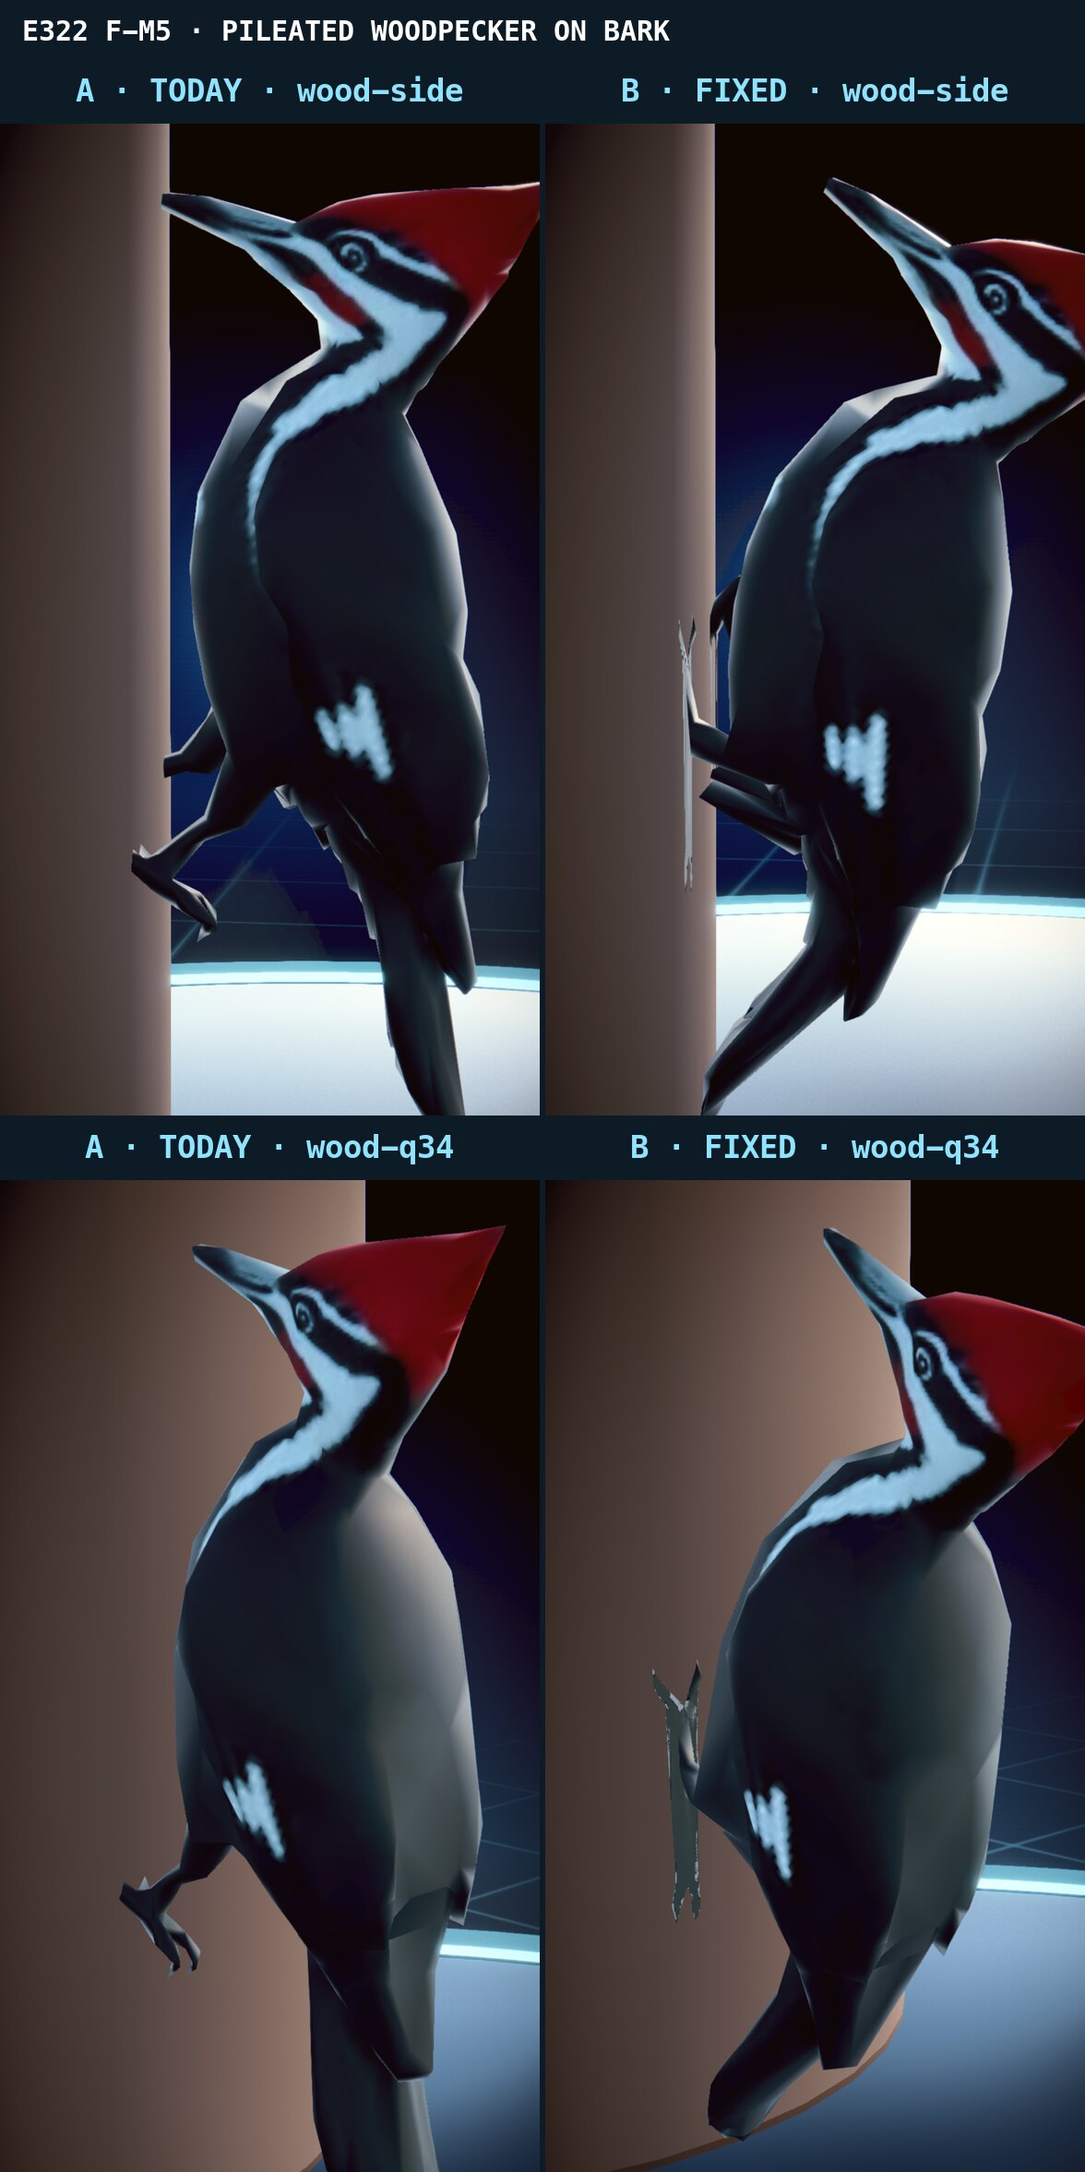
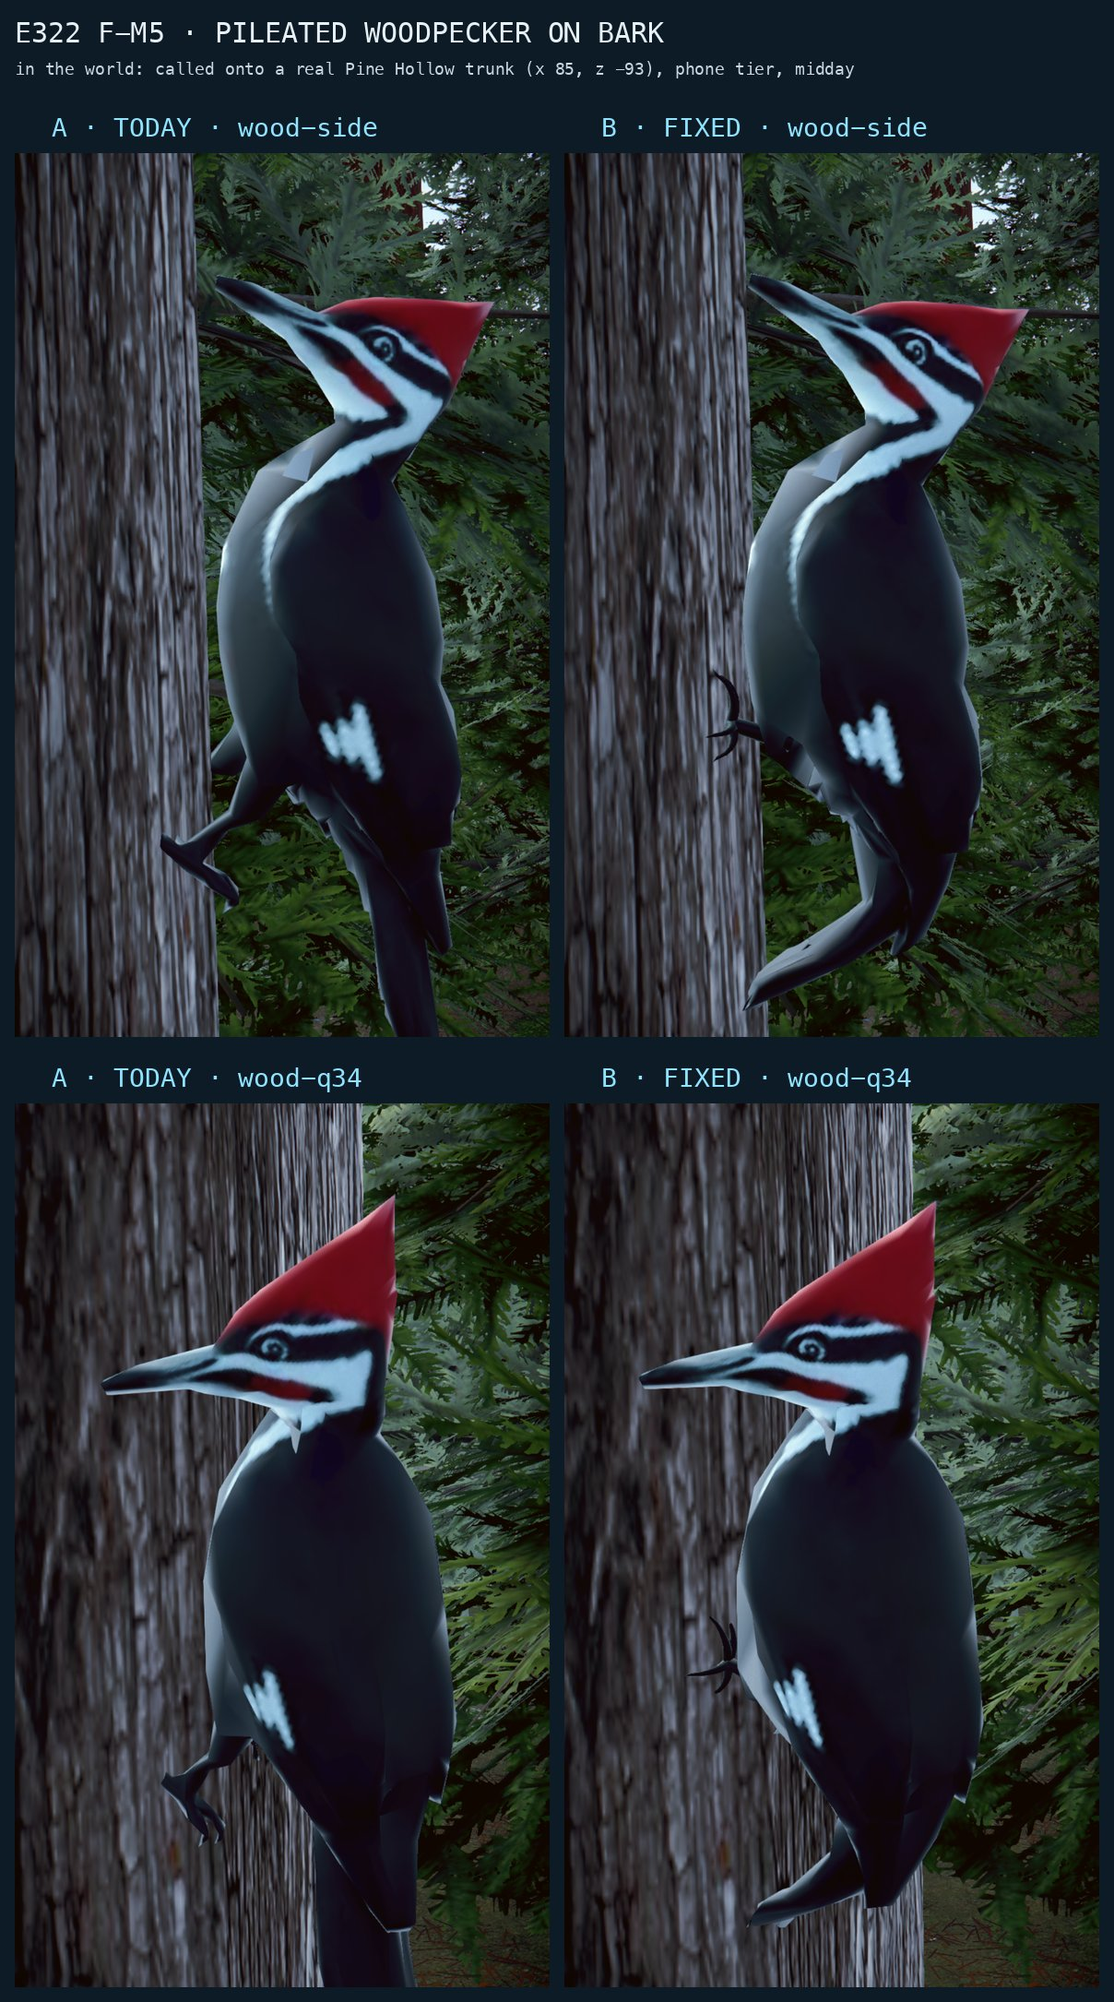
E322 F-M5: woodpecker — clawed feet gripping the bark instead of a flat grey sliver, belly along the bark, tail braced; board re-shot on a real Pine Hollow trunk
Bird fix B's clingPose folded the generated legs up and clamped them to the bark plane, so the tarsi and plate feet were
squashed flat onto it (a degenerate grey sliver); some foot vertices also sat past the tail's root plane and bent with
the tail (a thin stick). The body was slid in by its front-most point after a fixed lean, so the lower belly stood off.
Now (src/pinehollow/life/birdFix.ts): the lean is searched for the least mean gap down the torso's front and the body
slid to 4 mm off the bark; the generated legs collapse inside the belly and new feet are built (birdModels.ts
appendFeet): per side a short tarsus to the bark and four toes, arched off it and hooked in at the claws, on the old
feet's own dark texel (+~200 tris). Owl and raven B unchanged; A untouched.
Board: art/pine-hollow/round-19-e322-bears-birds/birds-woodpecker.jpg — in the world (__pineLife.woodNow onto a
trunk at x 85, z -93), phone tier, A and B on the same perch (scripts/e322-woodpecker-world-capture.mjs).
birds_fix_preview.mjs appends the feet to its B GLB for the Blender renders.

Claude-Session: https://claude.ai/code/session_01UVATwJZC8NaFzZwwMnQYsw

diff --git a/src/pinehollow/life/birdFix.ts b/src/pinehollow/life/birdFix.ts
@@ -6,8 +6,9 @@
  *                                      back are pushed out to an ellipsoid between the wing roots, the head, and the tail
  *   clingPose(pos, side, pitch)        the perched woodpecker: it stood on the bark on straight legs, its tail in the air;
  *                                      in the frame its perch puts it in (the trunk a vertical plane in front of its belly)
- *                                      the body leans back to the bark, the legs fold up under the breast onto the bark,
- *                                      the tail bends down until its tip props on the bark
+ *                                      the body lies along the bark, the generated legs go into the belly and new feet
+ *                                      grip the bark (a short tarsus, four dark toes hooked in at the claws: `feet`, which
+ *                                      birdModels.ts appends), the tail bends down until its tip braces on the bark
  *
  * Pure geometry on a flat xyz array (no three.js loader): scripts/img2mesh/birds/birds_fix_preview.mjs runs them in Node.
  */
@@ -45,57 +46,133 @@ export function inflateBody(pos: Float32Array, nor: Float32Array, s: FixSide, o:
   }
 }
 
+/** the clinging woodpecker's new feet (clingPose): in the pose frame, dark (every vertex on the old feet's own texel) */
+export interface ClingFeet { pos: Float32Array; uv: Float32Array; idx: Uint32Array }
+
+/** a tapered tube along `path` (world), appended to `P` / `I` — rings of `sides`, radius `rad[i]`, the last ring a point */
+function tube(P: number[], I: number[], path: readonly THREE.Vector3[], rad: readonly number[], sides: number): void {
+  const base = P.length / 3, T = new THREE.Vector3(), N1 = new THREE.Vector3(), N2 = new THREE.Vector3(), ref = new THREE.Vector3();
+  const m = path.length;
+  for (let i = 0; i < m; i++) {
+    const a = path[Math.max(0, i - 1)], b = path[Math.min(m - 1, i + 1)], c = path[i];
+    if (!a || !b || !c) continue;
+    T.subVectors(b, a).normalize();
+    ref.set(0, 0, 1); if (Math.abs(T.z) > 0.9) ref.set(1, 0, 0);
+    N1.crossVectors(T, ref).normalize(); N2.crossVectors(T, N1);
+    const r = rad[i] ?? 0;
+    for (let j = 0; j < sides; j++) {
+      const t = (j / sides) * Math.PI * 2, cs = Math.cos(t) * r, sn = Math.sin(t) * r;
+      P.push(c.x + N1.x * cs + N2.x * sn, c.y + N1.y * cs + N2.y * sn, c.z + N1.z * cs + N2.z * sn);
+    }
+  }
+  // (a, b, c) with a→b round the ring and a→c along the path faces outward (smoothNormals' winding)
+  for (let i = 0; i + 1 < m; i++) for (let j = 0; j < sides; j++) {
+    const a = base + i * sides + j, b = base + i * sides + ((j + 1) % sides), c = a + sides, d = b + sides;
+    I.push(a, b, c, b, d, c);
+  }
+}
+
 /**
  * The perched woodpecker, clinging. `pos` is in the pose frame (the model levelled, feet down, beak +z: birdModels.ts),
  * which its perch pitches nose-up by `pitch` on a trunk whose bark is the plane `bark` metres in front of the pose point
- * (life/index.ts: the spot is `sec.r + 0.05` out from the trunk's axis). Returns the rigid move applied to the whole bird
- * (the neck and shoulder pivots take it too); the legs and the tail then bend on top of it.
+ * (life/index.ts: the spot is `sec.r + 0.05` out from the trunk's axis). In that world frame (+y up, +z toward the trunk):
+ *
+ *  1. rigid: the body turned until its breast-and-belly line lies along the bark (the lean that leaves the least mean gap
+ *     down the torso), then slid in until its nearest point is `gap` off the bark — belly to the trunk, head held off it;
+ *  2. the generated legs (straight tarsi, flat plate feet — pressed onto the bark they read as a grey sliver, E322 F-M5
+ *     round 2) are drawn into the body, and `feet` are built instead: per side a short tarsus from the lower belly to the
+ *     bark and four toes splayed on it (two up, one out, one down-back), each arched off the bark and hooked into it at the
+ *     tip — dark curved claws, on the old feet's own dark texel (`uv`, when given);
+ *  3. the tail bent down from its root until its tip braces on the bark.
+ *
+ * Returns the rigid move applied to the whole bird (the neck and shoulder pivots take it) and the feet (pose frame).
  */
-export function clingPose(pos: Float32Array, s: FixSide, gen2pose: THREE.Matrix4, o: { pitch: number; bark?: number; lean?: number; gap?: number }): THREE.Matrix4 {
-  const n = pos.length / 3, bark = o.bark ?? 0.05;
+export function clingPose(pos: Float32Array, s: FixSide, gen2pose: THREE.Matrix4, o: { pitch: number; bark?: number; gap?: number; uv?: Float32Array | null }): { move: THREE.Matrix4; feet: ClingFeet } {
+  const n = pos.length / 3, bark = o.bark ?? 0.05, gap = o.gap ?? 0.004;
   // pose → the perch's world frame (+y up, +z toward the trunk; the bark the plane z = bark) and back
   const W = new THREE.Matrix4().makeRotationX(-o.pitch), Wi = new THREE.Matrix4().makeRotationX(o.pitch);
   const P = new THREE.Vector3();
-  const tail = new Uint8Array(n), leg = new Uint8Array(n);
-  // the parts, told in the generated frame (gen2pose⁻¹): the tail past its root plane, the legs below the belly
+  const tail = new Uint8Array(n), leg = new Uint8Array(n), head = new Uint8Array(n);
+  // the parts, told in the generated frame (gen2pose⁻¹): the tail past its root plane, the legs below the belly, the head
+  // above the neck
   const toGen = gen2pose.clone().invert();
   const tr = new THREE.Vector3(...(s.tailRoot ?? [0, -0.1, -0.1])), ta = new THREE.Vector3(...(s.tailAxis ?? [0, -0.63, -0.77])).normalize();
+  const headY = s.neck[1] - 0.005;   // above the neck: the head (left out of the torso's profile)
   const legTop = s.feetY + 0.065;   // the belly's underside: the tarsi hang below it (wood_perch: feet −0.200, belly ≈ −0.13)
   const sTail = new Float32Array(n);
+  let footUv = -1, footY = Infinity;
   for (let i = 0; i < n; i++) {
     P.set(pos[i * 3] ?? 0, pos[i * 3 + 1] ?? 0, pos[i * 3 + 2] ?? 0).applyMatrix4(toGen);
     const st = P.clone().sub(tr).dot(ta);
-    if (st > 0) { tail[i] = 1; sTail[i] = st; } else if (P.y < legTop) leg[i] = 1;
+    // the feet reach back past the tail's root plane: below the belly and forward of the tail's underside (z > −0.1) is leg
+    if (P.y < legTop && P.z > -0.1) { leg[i] = 1; if (P.y < footY) { footY = P.y; footUv = i; } } else if (st > 0) { tail[i] = 1; sTail[i] = st; } else if (P.y < legTop) leg[i] = 1; else if (P.y > headY) head[i] = 1;
   }
   // world
   const w = new Float32Array(pos.length);
   for (let i = 0; i < n; i++) { P.set(pos[i * 3] ?? 0, pos[i * 3 + 1] ?? 0, pos[i * 3 + 2] ?? 0).applyMatrix4(W); w[i * 3] = P.x; w[i * 3 + 1] = P.y; w[i * 3 + 2] = P.z; }
-  // 1. rigid: lean the body back from its nose-into-the-trunk tilt to `lean` (head away from the bark), then slide it in
-  //    until the breast is `gap` off the bark
-  const beak = new THREE.Vector3(...(s.beakTip ?? [0, 0.07, 0.15])).applyMatrix4(gen2pose).applyMatrix4(W);
-  const tt = new THREE.Vector3(...(s.tailTip ?? [0, -0.2, -0.21])).applyMatrix4(gen2pose).applyMatrix4(W);
-  const axisAng = Math.atan2(beak.z - tt.z, beak.y - tt.y);          // the body axis's lean toward the trunk (+) from vertical
-  const turn = new THREE.Matrix4().makeRotationX(-(axisAng + (o.lean ?? 0.06)));   // about +x (+y turns toward +z): minus leans it back
+  // 1. rigid: the lean (about +x; + turns +y toward the bark) that lays the torso's front along the bark
+  const bins = 24;
+  let bestLean = 0, bestGap = Infinity;
+  for (let lean = -0.4; lean <= 0.4001; lean += 0.01) {
+    const c = Math.cos(lean), sn = Math.sin(lean);
+    const prof = new Float32Array(bins).fill(-Infinity);
+    let y0 = Infinity, y1 = -Infinity, front = -Infinity;
+    const ys: number[] = [], zs: number[] = [];
+    for (let i = 0; i < n; i++) {
+      if (tail[i] === 1 || leg[i] === 1) continue;
+      const y = w[i * 3 + 1] ?? 0, z = w[i * 3 + 2] ?? 0;
+      const y2 = y * c - z * sn, z2 = y * sn + z * c;
+      front = Math.max(front, z2);
+      if (head[i] === 1) continue;
+      ys.push(y2); zs.push(z2); y0 = Math.min(y0, y2); y1 = Math.max(y1, y2);
+    }
+    for (let k = 0; k < ys.length; k++) {
+      const b = Math.min(bins - 1, Math.floor(((ys[k] ?? 0) - y0) / (y1 - y0 + 1e-6) * bins));
+      prof[b] = Math.max(prof[b] ?? -Infinity, zs[k] ?? 0);
+    }
+    // the middle of the torso (its ends are the rump and the shoulders' round-off): the mean gap to the front
+    let sum = 0, cnt = 0;
+    for (let b = 3; b < bins - 3; b++) { const v = prof[b] ?? -Infinity; if (v > -Infinity) { sum += front - v; cnt++; } }
+    const mean = cnt > 0 ? sum / cnt : Infinity;
+    if (mean < bestGap - 1e-5) { bestGap = mean; bestLean = lean; }
+  }
+  const turn = new THREE.Matrix4().makeRotationX(bestLean);   // three: +a turns +y toward +z (the bark)
   let front = -Infinity;
   for (let i = 0; i < n; i++) {
     P.set(w[i * 3] ?? 0, w[i * 3 + 1] ?? 0, w[i * 3 + 2] ?? 0).applyMatrix4(turn);
     w[i * 3] = P.x; w[i * 3 + 1] = P.y; w[i * 3 + 2] = P.z;
     if (tail[i] === 0 && leg[i] === 0) front = Math.max(front, P.z);
   }
-  const slide = bark - (o.gap ?? 0.012) - front;
+  const slide = bark - gap - front;
   for (let i = 0; i < n; i++) w[i * 3 + 2] = (w[i * 3 + 2] ?? 0) + slide;
   const rigid = new THREE.Matrix4().makeTranslation(0, 0, slide).multiply(turn);
-  // 2. the legs, folded up under the breast: turned about the hip (the tarsi's top, centre) until they lie along the
-  //    bark with the feet up toward the chest, then pressed onto the bark
-  const hip = new THREE.Vector3(0, s.feetY + 0.07, tr.z + 0.07).applyMatrix4(gen2pose).applyMatrix4(W).applyMatrix4(rigid);
-  const fold = new THREE.Matrix4().makeTranslation(hip.x, hip.y, hip.z).multiply(new THREE.Matrix4().makeRotationX(-1.25)).multiply(new THREE.Matrix4().makeScale(1, 0.85, 0.85)).multiply(new THREE.Matrix4().makeTranslation(-hip.x, -hip.y, -hip.z));
-  for (let i = 0; i < n; i++) {
-    if (leg[i] === 0) continue;
-    P.set(w[i * 3] ?? 0, w[i * 3 + 1] ?? 0, w[i * 3 + 2] ?? 0).applyMatrix4(fold);
-    w[i * 3] = P.x; w[i * 3 + 1] = P.y; w[i * 3 + 2] = Math.min(P.z, bark - 0.002);
+  const toWorld = (g: readonly [number, number, number]): THREE.Vector3 => new THREE.Vector3(...g).applyMatrix4(gen2pose).applyMatrix4(W).applyMatrix4(rigid);
+  // 2. the generated legs drawn into the belly (their faces collapse inside the body) …
+  const inside = toWorld([0, s.feetY + 0.1, tr.z + 0.07]);
+  for (let i = 0; i < n; i++) if (leg[i] === 1) { w[i * 3] = inside.x; w[i * 3 + 1] = inside.y; w[i * 3 + 2] = inside.z; }
+  // … and the new feet: per side a tarsus from the lower belly to the bark, four toes on it hooked in at the tip
+  const FP: number[] = [], FI: number[] = [];
+  const TOES = [[0.3, 0.03], [-0.15, 0.027], [1.75, 0.024], [2.75, 0.02]] as const;   // (angle from straight up, outward +; length m)
+  for (const side of [-1, 1]) {
+    const hip = toWorld([side * 0.021, s.feetY + 0.08, tr.z + 0.075]);
+    const foot = new THREE.Vector3(side * 0.03, hip.y + 0.01, bark - 0.0042);
+    const tp: THREE.Vector3[] = [], trd: number[] = [];
+    for (let k = 0; k <= 4; k++) { const f = k / 4; tp.push(hip.clone().lerp(foot, f)); trd.push(0.005 - 0.0012 * f); }
+    tube(FP, FI, tp, trd, 6);
+    for (const [ang, len] of TOES) {
+      const dx = side * Math.sin(ang), dy = Math.cos(ang), path: THREE.Vector3[] = [], rd: number[] = [];
+      for (let k = 0; k <= 8; k++) {
+        const f = k / 8, r = 0.0032 * (1 - 0.85 * f);
+        const off = r + 0.0035 * Math.sin(Math.PI * Math.min(1, f / 0.85)) - 0.0048 * smooth(0.7, 1, f);   // arched off the bark, the claw hooked into it
+        path.push(new THREE.Vector3(foot.x + dx * len * f, foot.y + dy * len * f, bark - off));
+        rd.push(k === 8 ? 0 : r);
+      }
+      tube(FP, FI, path, rd, 5);
+    }
   }
   // 3. the tail, bent down (toward the bark) progressively from its root until its tip props on the bark
   const root = tr.clone().applyMatrix4(gen2pose).applyMatrix4(W).applyMatrix4(rigid);
+  const tt = new THREE.Vector3(...(s.tailTip ?? [0, -0.2, -0.21])).applyMatrix4(gen2pose).applyMatrix4(W);
   let sMax = 0;
   for (let i = 0; i < n; i++) if (tail[i] === 1) sMax = Math.max(sMax, sTail[i] ?? 0);
   const tip = tt.clone().applyMatrix4(rigid);
@@ -115,5 +192,10 @@ export function clingPose(pos: Float32Array, s: FixSide, gen2pose: THREE.Matrix4
   }
   // back to the pose frame
   for (let i = 0; i < n; i++) { P.set(w[i * 3] ?? 0, w[i * 3 + 1] ?? 0, w[i * 3 + 2] ?? 0).applyMatrix4(Wi); pos[i * 3] = P.x; pos[i * 3 + 1] = P.y; pos[i * 3 + 2] = P.z; }
-  return Wi.clone().multiply(rigid).multiply(W);
+  const fp = new Float32Array(FP.length);
+  for (let i = 0; i < FP.length / 3; i++) { P.set(FP[i * 3] ?? 0, FP[i * 3 + 1] ?? 0, FP[i * 3 + 2] ?? 0).applyMatrix4(Wi); fp[i * 3] = P.x; fp[i * 3 + 1] = P.y; fp[i * 3 + 2] = P.z; }
+  const fuv = new Float32Array((FP.length / 3) * 2);
+  const u0 = footUv >= 0 && o.uv ? (o.uv[footUv * 2] ?? 0) : 0, v0 = footUv >= 0 && o.uv ? (o.uv[footUv * 2 + 1] ?? 0) : 0;
+  for (let i = 0; i < fuv.length / 2; i++) { fuv[i * 2] = u0; fuv[i * 2 + 1] = v0; }
+  return { move: Wi.clone().multiply(rigid).multiply(W), feet: { pos: fp, uv: fuv, idx: Uint32Array.from(FI) } };
 }

diff --git a/src/pinehollow/life/birdModels.ts b/src/pinehollow/life/birdModels.ts
@@ -15,8 +15,9 @@
  * height the procedural bird's did (RAVEN_STAND / OWL_STAND), so every perch spot and landing lines up.
  *
  * E322 F-M5, Debug ▸ Creatures & NPCs ▸ Bird fix (a reload; A = the above, untouched): B gives the flying owl a body
- * (birdFix.ts `inflateBody`: it came back a bas-relief), clings the perched woodpecker to its bark (`clingPose`: legs
- * folded up under the breast, tail propped, instead of standing on straight legs) and, on the phone, loads
+ * (birdFix.ts `inflateBody`: it came back a bas-relief), clings the perched woodpecker to its bark (`clingPose`: belly along
+ * the bark, new dark clawed feet gripping it — `appendFeet` adds them — tail braced, instead of standing on straight
+ * legs) and, on the phone, loads
  * `birds-b.phone.glb` — the same meshes on a 1024² atlas that gives the raven (and the perched owl) the desktop's 512²
  * tiles instead of 256² (scripts/img2mesh/birds/birds_phone_b.py; no KTX2 twin while it is a variant: KTX2 mode loads it
  * as WebP).
@@ -27,7 +28,7 @@ import { MeshoptDecoder } from 'three/examples/jsm/libs/meshopt_decoder.module.j
 import { KIND, type WildKind } from '../../chunks/pine-hollow/models/wildlife';
 import { setting } from '../../ui/Settings';
 import { phoneUrl } from '../../boot/bytes';
-import { clingPose, inflateBody } from './birdFix';
+import { clingPose, inflateBody, type ClingFeet } from './birdFix';
 
 export const BIRDS_URL = '/assets/pine-hollow/life/birds.glb';
 export const BIRDS_JSON_URL = '/assets/pine-hollow/life/birds.json';
@@ -110,6 +111,25 @@ function floats(g: THREE.BufferGeometry, name: string): Float32Array | null {
   return a instanceof Float32Array ? a : null;
 }
 
+/** E322 F-M5 B: the clinging woodpecker's new feet appended to its geometry (position / uv / index; body part 0; the
+ *  normals are rebuilt after). Returns the parts grown to match. */
+function appendFeet(g: THREE.BufferGeometry, parts: Uint8Array, f: ClingFeet): Uint8Array {
+  const P = floats(g, 'position'), U = floats(g, 'uv'), idx = g.getIndex();
+  if (!P || !U || !idx) return parts;
+  const n0 = P.length / 3, nf = f.pos.length / 3;
+  const pos = new Float32Array(P.length + f.pos.length); pos.set(P); pos.set(f.pos, P.length);
+  const uv = new Float32Array(U.length + f.uv.length); uv.set(U); uv.set(f.uv, U.length);
+  const ix = new Uint32Array(idx.count + f.idx.length);
+  for (let i = 0; i < idx.count; i++) ix[i] = idx.getX(i);
+  for (let i = 0; i < f.idx.length; i++) ix[idx.count + i] = (f.idx[i] ?? 0) + n0;
+  g.setAttribute('position', new THREE.BufferAttribute(pos, 3));
+  g.setAttribute('normal', new THREE.BufferAttribute(new Float32Array(pos.length), 3));
+  g.setAttribute('uv', new THREE.BufferAttribute(uv, 2));
+  g.setIndex(new THREE.BufferAttribute(ix, 1));
+  const out = new Uint8Array(n0 + nf); out.set(parts);
+  return out;
+}
+
 function parseBirds(root: THREE.Object3D, side: Sidecar, fix: boolean): BirdSet {
   root.updateMatrixWorld(true);
   const found = new Map<string, THREE.Mesh>();
@@ -140,7 +160,8 @@ function parseBirds(root: THREE.Object3D, side: Sidecar, fix: boolean): BirdSet 
       smoothNormals(g);
       // the parts, in the generated frame: flying, outboard of the body's half-width a wing; the head past the plane
       // through the neck across its axis (+z flying; up-and-forward on the upright perched birds)
-      const pos = g.getAttribute('position'), parts = new Uint8Array(pos.count);
+      const pos = g.getAttribute('position');
+      let parts: Uint8Array = new Uint8Array(pos.count);
       const N = s.neck, A = s.headAxis ?? [0, 0, 1];
       for (let i = 0; i < pos.count; i++) {
         const x = pos.getX(i), y = pos.getY(i), z = pos.getZ(i);
@@ -161,8 +182,9 @@ function parseBirds(root: THREE.Object3D, side: Sidecar, fix: boolean): BirdSet 
         // E322 F-M5 B: the woodpecker clinging to its bark (legs folded, tail propped); the pivots take its rigid move
         const Q = floats(g, 'position');
         if (fix && b.kind === KIND.woodpecker && Q) {
-          _m.premultiply(clingPose(Q, s, _m.clone(), { pitch: b.perchPitch }));
-          g.getAttribute('position').needsUpdate = true;
+          const cling = clingPose(Q, s, _m.clone(), { pitch: b.perchPitch, uv: floats(g, 'uv') });
+          _m.premultiply(cling.move);
+          parts = appendFeet(g, parts, cling.feet);
           smoothNormals(g);
         }
         // the head held back by the pitch the life code pitches it down by (the owl's 1.1 on its perch)

diff --git a/art/pine-hollow/round-19-e322-bears-birds/README.md b/art/pine-hollow/round-19-e322-bears-birds/README.md
@@ -63,6 +63,11 @@ the owl switched to its flying pose, the woodpecker against a stand-in trunk at 
 - `birds-woodpecker.jpg`: the pileated woodpecker on its trunk. A stands on the bark on straight legs, tail in the air.
   B (`clingPose`) leans the body back to the bark, folds the legs up under the breast onto the bark (feet by the belly)
   and bends the tail down until its tip props on the bark. The pivots move with it.
+  **Re-shot (E322 F-M5 fix):** that first B pressed the folded legs flat onto the bark (a grey sliver) and left the body
+  a little off it. Now the generated legs go into the belly and B builds new feet: a short tarsus to the bark and four
+  dark toes per foot, arched and hooked into the bark at the claws; the body is turned so its breast-and-belly line lies
+  along the bark, 4 mm off. The board is now in the world: the woodpecker called onto a real Pine Hollow trunk
+  (`__pineLife.woodNow()`, x 85, z −93), A and B on the same perch.
 - `birds-raven-phone.jpg`: the raven on the phone tier, whole and close. A's phone atlas is the desktop's halved (every
   tile 256²). B loads `birds-b.phone.glb`: the same meshes on a 1024² atlas that gives the raven's two tiles (and the
   perched owl's) the desktop's own 512² texels, the rest 256² Lanczos + a light sharpen
